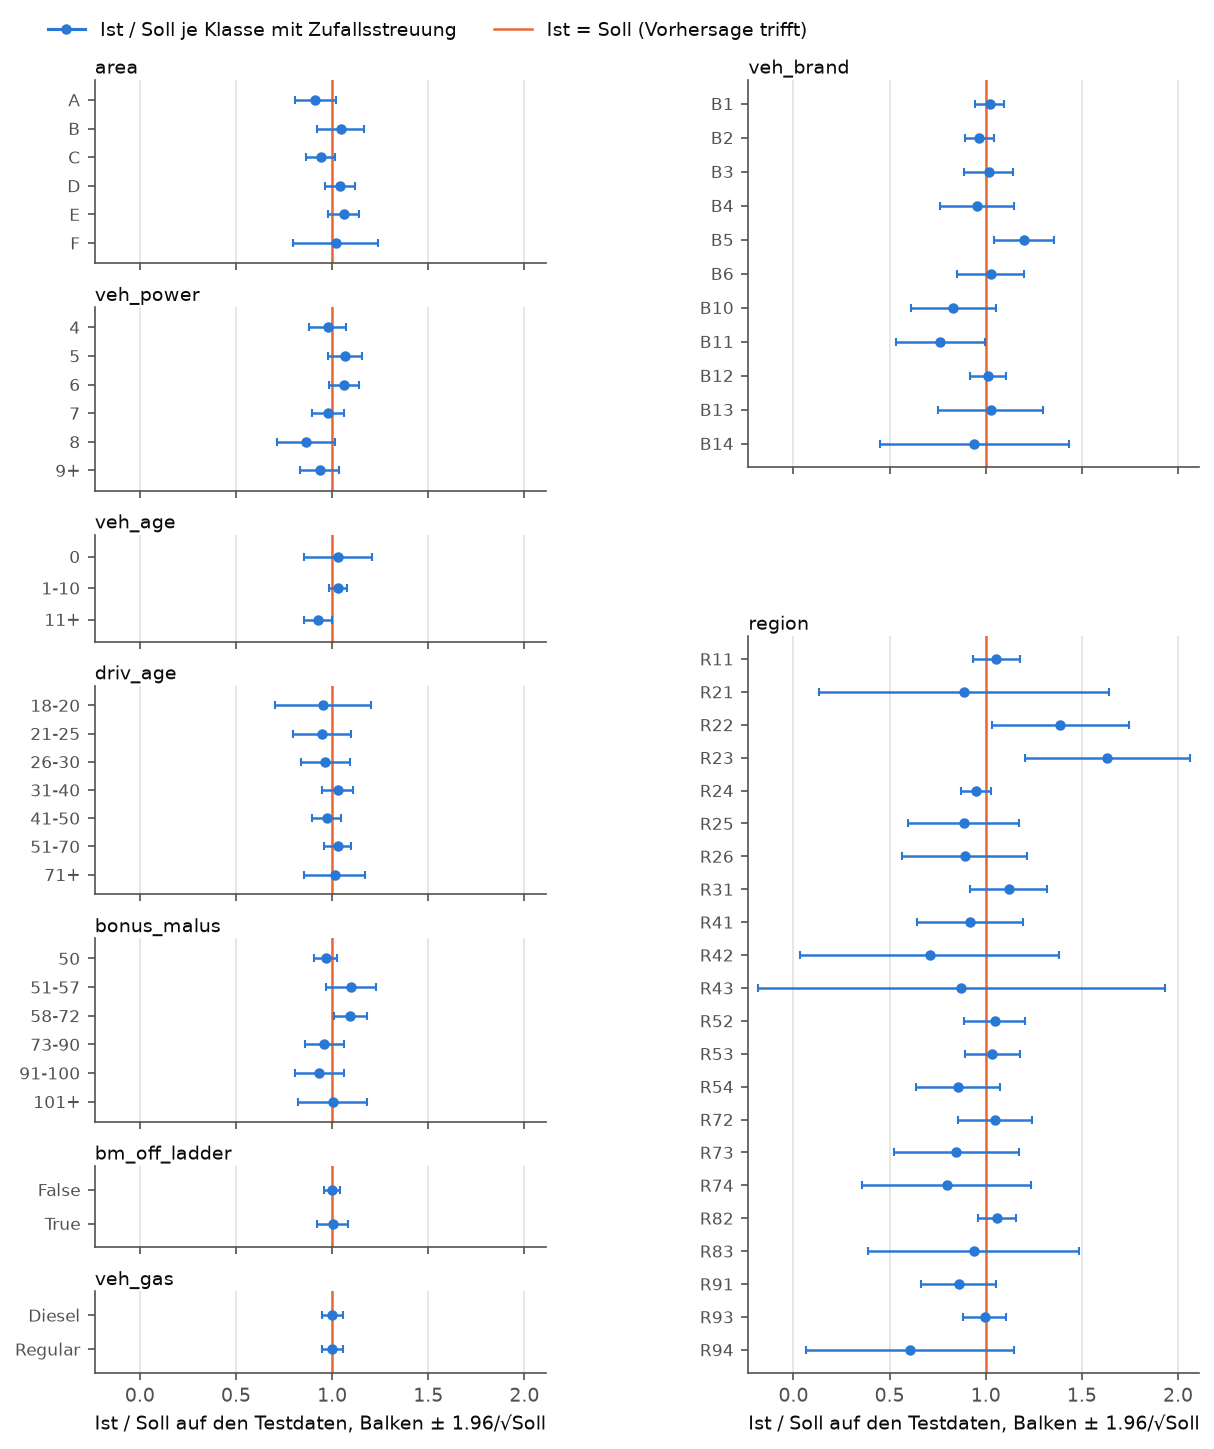
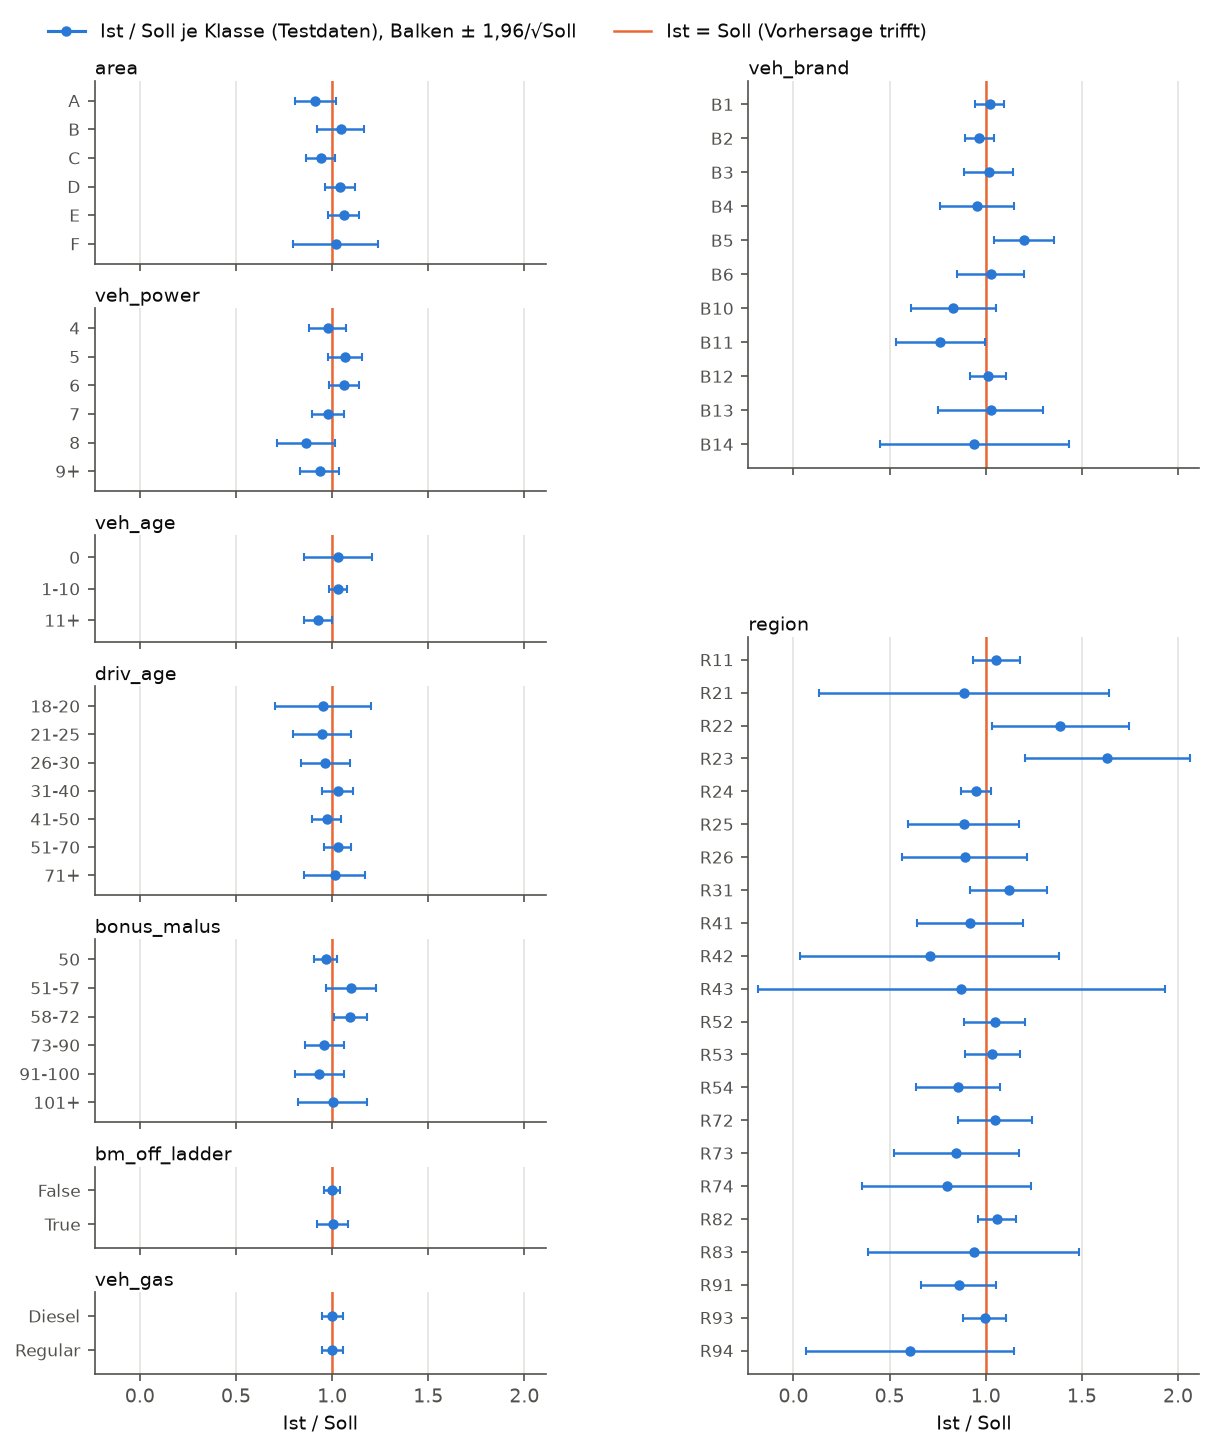
Ist-Soll-Grafik ohne doppelte Beschriftung, README kürzer; Quelle des RAA-Dreiecks korrigiert

diff --git a/src/nonlife/plots.py b/src/nonlife/plots.py
@@ -197,14 +197,12 @@ def plot_actual_vs_expected(
         ax.set_yticks(y, [str(level) for level in table.index], fontsize=8)
         ax.set_xlim(lo - 0.05, hi + 0.05)
 
-    fig, _ = _feature_panels(
-        {f: len(t) for f, t in tables.items()}, columns, draw,
-        f"Ist / Soll auf den Testdaten, Balken ± {z:g}/√Soll",
-    )
+    fig, _ = _feature_panels({f: len(t) for f, t in tables.items()}, columns, draw, "Ist / Soll")
+    z_text = f"{z:g}".replace(".", ",")
     fig.legend(
         handles=[
             Line2D([], [], color=SERIES_1, marker="o", markersize=4,
-                   label="Ist / Soll je Klasse mit Zufallsstreuung"),
+                   label=f"Ist / Soll je Klasse (Testdaten), Balken ± {z_text}/√Soll"),
             Line2D([], [], color=SERIES_2, linewidth=1.2, label="Ist = Soll (Vorhersage trifft)"),
         ],
         loc="upper left", bbox_to_anchor=(0.08, 1.0), ncol=2, frameon=False, fontsize=9,

diff --git a/tests/conftest.py b/tests/conftest.py
@@ -16,7 +16,7 @@ def rng() -> np.random.Generator:
 
 @pytest.fixture(scope="session")
 def raa_triangle() -> pd.DataFrame:
-    """RAA-Dreieck aus Mack (1993), kumuliert, Index Anfalljahr, Spalten 0..9."""
+    """RAA-Dreieck (Reinsurance Association of America 1991; Mack 1994), kumuliert, Index Anfalljahr, Spalten 0..9."""
     cl = pytest.importorskip("chainladder")
     with warnings.catch_warnings():
         warnings.simplefilter("ignore")

diff --git a/README.md b/README.md
@@ -55,7 +55,7 @@ Die Devianz misst, wie weit die vorhergesagten von den tatsächlichen Schadenzah
 
 ![Ist gegen Soll je Klasse auf den Testdaten](reports/figures/fremtpl2_actual_vs_expected.png)
 
-*So liest man die Grafik:* Jeder Punkt ist eine Klasse eines Merkmals, etwa die Fahrer von 18 bis 20 Jahren. Sein Wert ist die Zahl der Schäden, die diese Policen in den Testdaten tatsächlich hatten (Ist), geteilt durch die Zahl, die das GLM für sie vorhersagt (Soll). Der rote Strich bei 1 heißt Ist = Soll: Die Vorhersage trifft. Rechts davon gab es mehr Schäden als vorhergesagt, links weniger. Der Balken zeigt, wie weit das Verhältnis allein durch Zufall schwankt, wenn das Modell stimmt (±1,96/√Soll, also breit bei kleinen Klassen wie R43). Schneidet der Balken den Strich, ist die Abweichung mit Zufall vereinbar.
+Ist ist die tatsächliche Zahl der Schäden einer Klasse in den Testdaten, Soll die Vorhersage des GLM für dieselben Policen. Der Balken zeigt, wie weit das Verhältnis allein durch Zufall schwankt, wenn das Modell stimmt (±1,96/√Soll, also breit bei kleinen Klassen wie R43). Schneidet der Balken den Strich bei 1, ist die Abweichung mit Zufall vereinbar.
 
 Insgesamt gab es auf den Testdaten 2.619 Schäden bei 2.618,0 vorhergesagten. Je Klasse schneiden 59 der 65 Balken den Strich, 6 nicht. Die Balken unterstellen aber reine Poisson-Streuung, und die Daten streuen stärker: Der Schätzer der Dispersion (Verhältnis von beobachteter zu Poisson-Varianz) ist $\hat\phi = 1{,}71$. Verbreitert man die Balken entsprechend um den Faktor $\sqrt{1{,}71} \approx 1{,}31$, bleibt nur die Region R23 (Ist 34, Soll 20,8) außerhalb. Bei 65 Klassen wären etwa drei zufällige Ausreißer zu erwarten.
 
@@ -95,7 +95,7 @@ summiert über alle Anfalljahre $i$, für die beide Werte beobachtet sind. Ist $
 
 $$\hat C_{i,J} = C_{i,I-i} \prod_{j \ge I-i} \hat f_j, \qquad \hat R_i = \hat C_{i,J} - C_{i,I-i}.$$
 
-Die wahre Reserve je Anfalljahr ist der simulierte Endschaden minus die bis zum Stichtag gezahlten Beträge. Die Chain-Ladder-Funktionen sind gegen das Paket [`chainladder`](https://github.com/casact/chainladder-python) auf dem RAA-Dreieck aus Mack (1993) getestet; das Paket wird nur in den Tests verwendet.
+Die wahre Reserve je Anfalljahr ist der simulierte Endschaden minus die bis zum Stichtag gezahlten Beträge. Die Chain-Ladder-Funktionen sind gegen das Paket [`chainladder`](https://github.com/casact/chainladder-python) auf dem RAA-Dreieck getestet (Schadendaten der Reinsurance Association of America, 1991, ein Standardbeispiel u. a. bei Mack 1994); das Paket wird nur in den Tests verwendet.
 
 ### Tarifierung ([`pricing.py`](src/nonlife/pricing.py))
 
